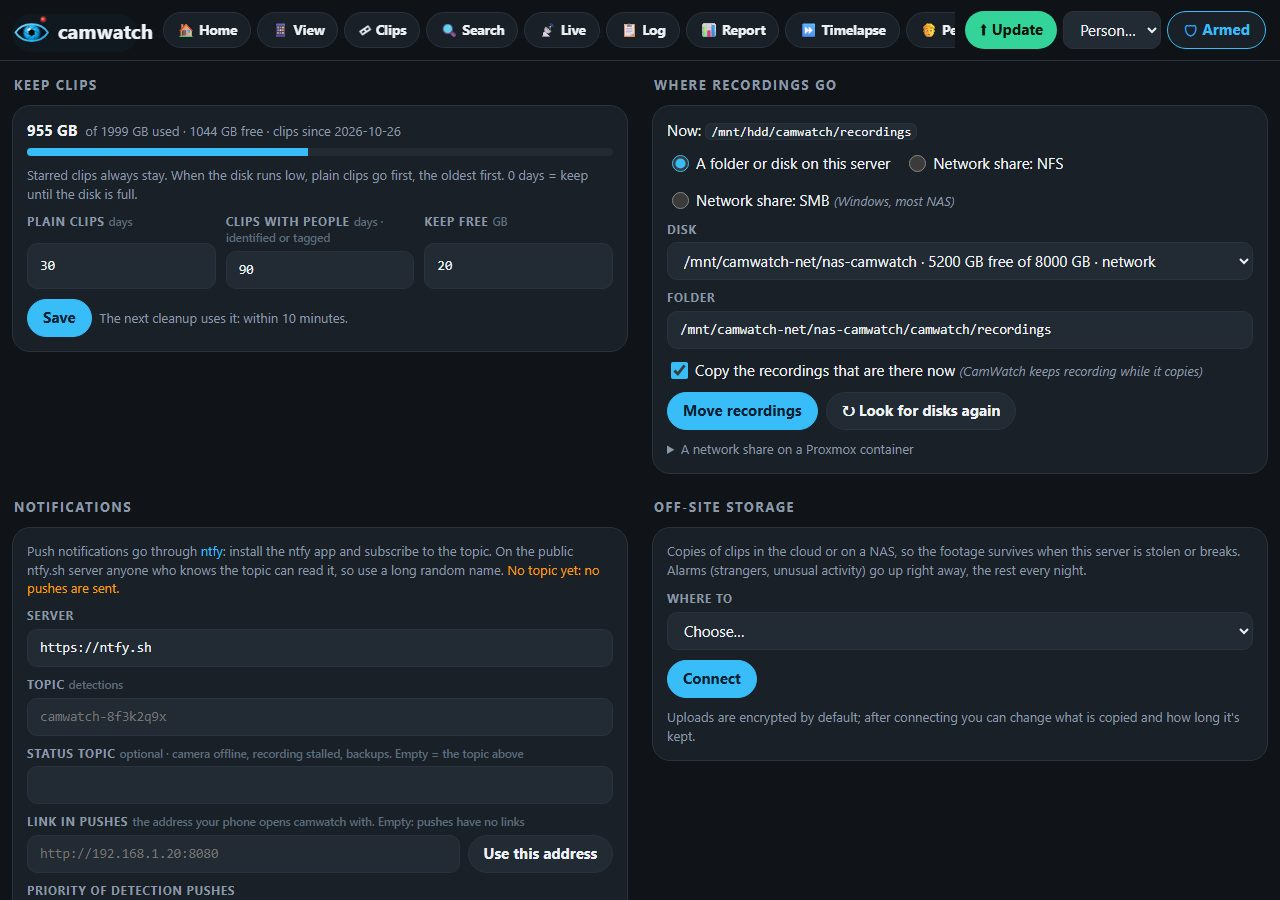
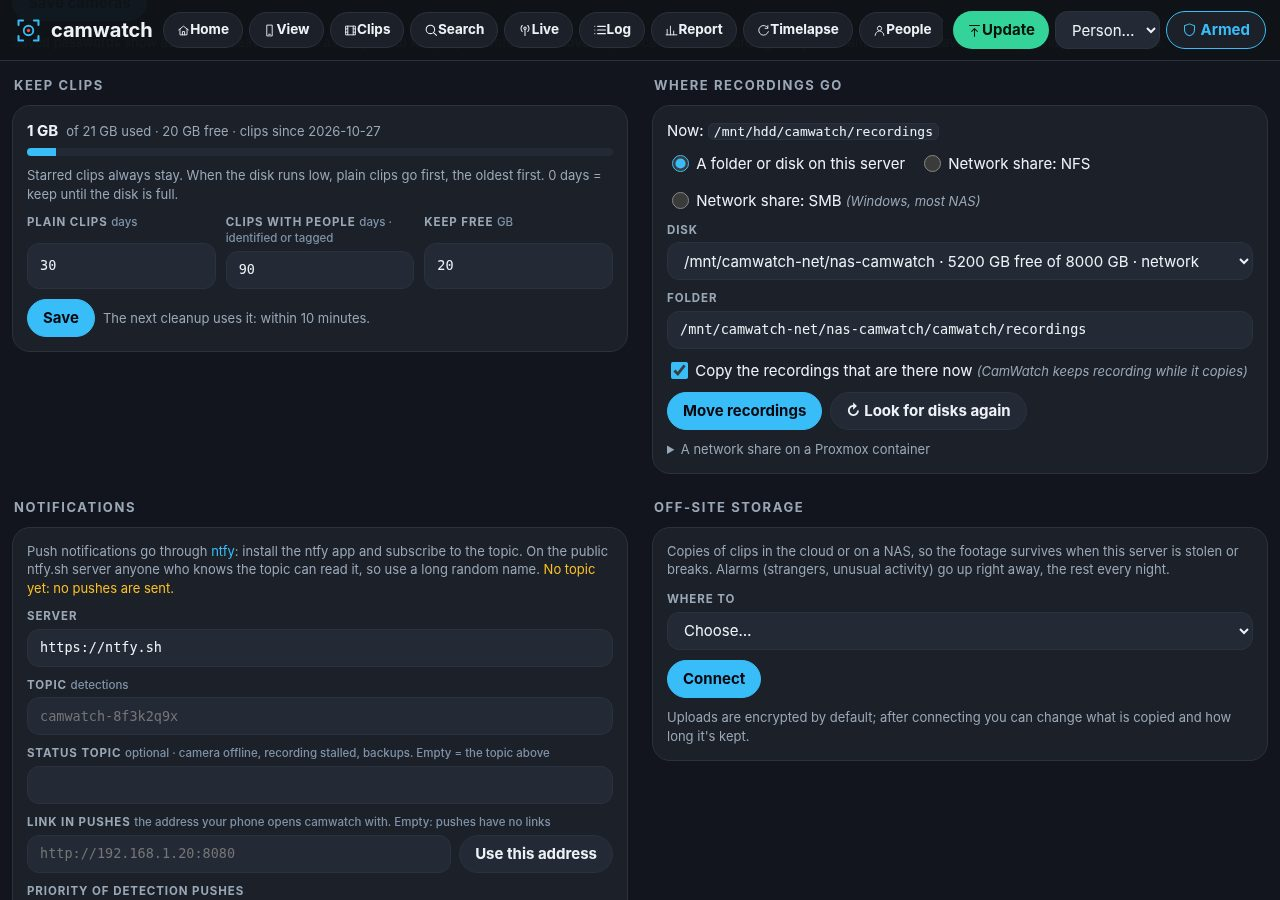
camwatch: re-shoot the screenshots, and the suite runs again
The 16 CamWatch screenshots were from 28 Oct and showed the emoji interface
that today replaced. Regenerated, so the README matches what ships.

THE TESTS RUN NOW, AND THREE OF THEM WERE FAILING ON MY WORK

All session I reported CamWatch's suite as "environmental failures" because
cv2 and flask were missing and there is no pip in this container. apt has
them: python3-opencv, python3-flask, python3-waitress, python3-paho-mqtt,
python3-onnxruntime. The suite goes from 3 of 15 files to 16 of 16, 619
checks.

With it running, three assertions turned out to be broken by today's icon
work, and nothing could see it:

  test_webui.py                 "☑ Select" in page
  test_visits_alerts_finder.py  "🔗 garden" in idx
  test_visits_alerts_finder.py  "🔍 Find" in page

Each pinned an emoji that is now a drawn icon. They assert the current markup
instead - icon, label and the space between them - which is no weaker: it
pins the icon as well as the word. A fourth line in test_updates.py had an
emoji in its description only, and now says what the button actually is.

This is the cost of having worked blind. Four of the six suites that were
failing were failing for a real reason the whole time, and I had written them
all off as missing modules. Worth saying plainly.

THE SCREENSHOTS

dev/screenshots.py builds its own fake recordings and draws the scenes - a
house, a lawn, figures, a car - so no picture here is of Johan's house, which
[…]

diff --git a/CamWatch/tests/test_visits_alerts_finder.py b/CamWatch/tests/test_visits_alerts_finder.py
@@ -92,7 +92,8 @@ page = c.get(f"/clip/{day}/garden_200050").get_data(as_text=True)
 check("clip page: same visit, play all with both videos", "Same visit" in page and "Play all" in page and page.count(".mp4") >= 2 and "camera1_200000.mp4" in page)
 check("clip page: unusual banner", "Unusual:</b> no person on garden" in page)
 idx = c.get(f"/?day={day}").get_data(as_text=True)
-check("clip list: 🔗 tag and ⚠ unusual tag", "🔗 garden" in idx and "⚠ unusual" in idx)
+check("clip list: same-visit tag and unusual tag",
+      '<i class="icon icon-link" aria-hidden="true"></i> garden' in idx and "⚠ unusual" in idx)
 vis = {v["stem"]: v for v in c.get(f"/api/visits?day={day}").get_json()}
 check(f"/api/visits: visit + unusual {vis['garden_200050']['visit']}", vis["garden_200050"]["visit"] == ["camera1"] and vis["garden_200050"]["unusual"] and vis["drive_200300"]["visit"] == [])
 
@@ -205,7 +206,7 @@ check("public camera address refused", r.status_code == 400)
 page = c.get("/settings").get_data(as_text=True)
 check("empty slot card starts a scan", "openSlot(this, true)" in page and "finds the cameras on your network" in page)
 check("settings has the Find button and the finder outside the camera form",
-      "🔍 Find" in page and page.index('id="finder"') > page.index("A renamed camera saves new clips"))
+      '<i class="icon icon-search" aria-hidden="true"></i> Find' in page and page.index('id="finder"') > page.index("A renamed camera saves new clips"))
 
 # ---------- ntfy settings ----------
 before = common.Ntfy(logging.getLogger("n"))

diff --git a/CamWatch/dev/screenshots.py b/CamWatch/dev/screenshots.py
@@ -100,7 +100,11 @@ def main():
             png = Path(profile) / f"{name}.png"
             import urllib.parse
             url = f"http://127.0.0.1:{port}/__frame?w={w}&h={h}&src={urllib.parse.quote(path.format(today=today))}"
+            # Chrome refuses to start as root unless the sandbox is off, which is
+            # the case in a container. Added only then, never on a normal desktop.
+            root = getattr(os, "geteuid", lambda: 1)() == 0
             cmd = [args.chrome, "--headless=new", "--disable-gpu", "--hide-scrollbars", "--no-first-run", "--mute-audio",
+                   *(["--no-sandbox"] if root else []),
                    f"--user-data-dir={profile}", f"--window-size={max(w, 600)},{h}", "--virtual-time-budget=8000",
                    f"--force-device-scale-factor={2 if phone else 1}", f"--screenshot={png}", url]
             try:

diff --git a/CamWatch/tests/test_webui.py b/CamWatch/tests/test_webui.py
@@ -111,7 +111,7 @@ import io  # noqa: E402
 import zipfile  # noqa: E402
 old = (today - dt.timedelta(days=2)).isoformat()
 page = c.get(f"/?day={old}").get_data(as_text=True)
-good = "☑ Select" in page and f'data-clip="{old}/camera1_100000"' in page and "pickbar" in page
+good = '<i class="icon icon-check-box" aria-hidden="true"></i> Select' in page and f'data-clip="{old}/camera1_100000"' in page and "pickbar" in page
 ok &= good
 print(f"{'PASS' if good else 'FAIL'} the Clips page has Select, and every clip card carries its clip")
 r = c.post("/clips/download", data={"clip": [f"{old}/camera1_100000", f"{old}/camera1_110000"]})

diff --git a/CamWatch/tests/test_updates.py b/CamWatch/tests/test_updates.py
@@ -59,7 +59,7 @@ report(any("path=CamWatch" in p for p, _ in seen), "the check looks at the CamWa
 n = len(seen)
 top = c.get("/").get_data(as_text=True)
 report('class="upd-pill"' in top and "Version 2026.10.29 is ready" in top and len(seen) == n,
-       "the top bar shows ⬆ Update, without asking GitHub again")
+       "the top bar shows the Update pill, without asking GitHub again")
 n = len(seen)
 c.get("/api/update")
 report(len(seen) == n, "a second check within 3 minutes uses the cached answer")
